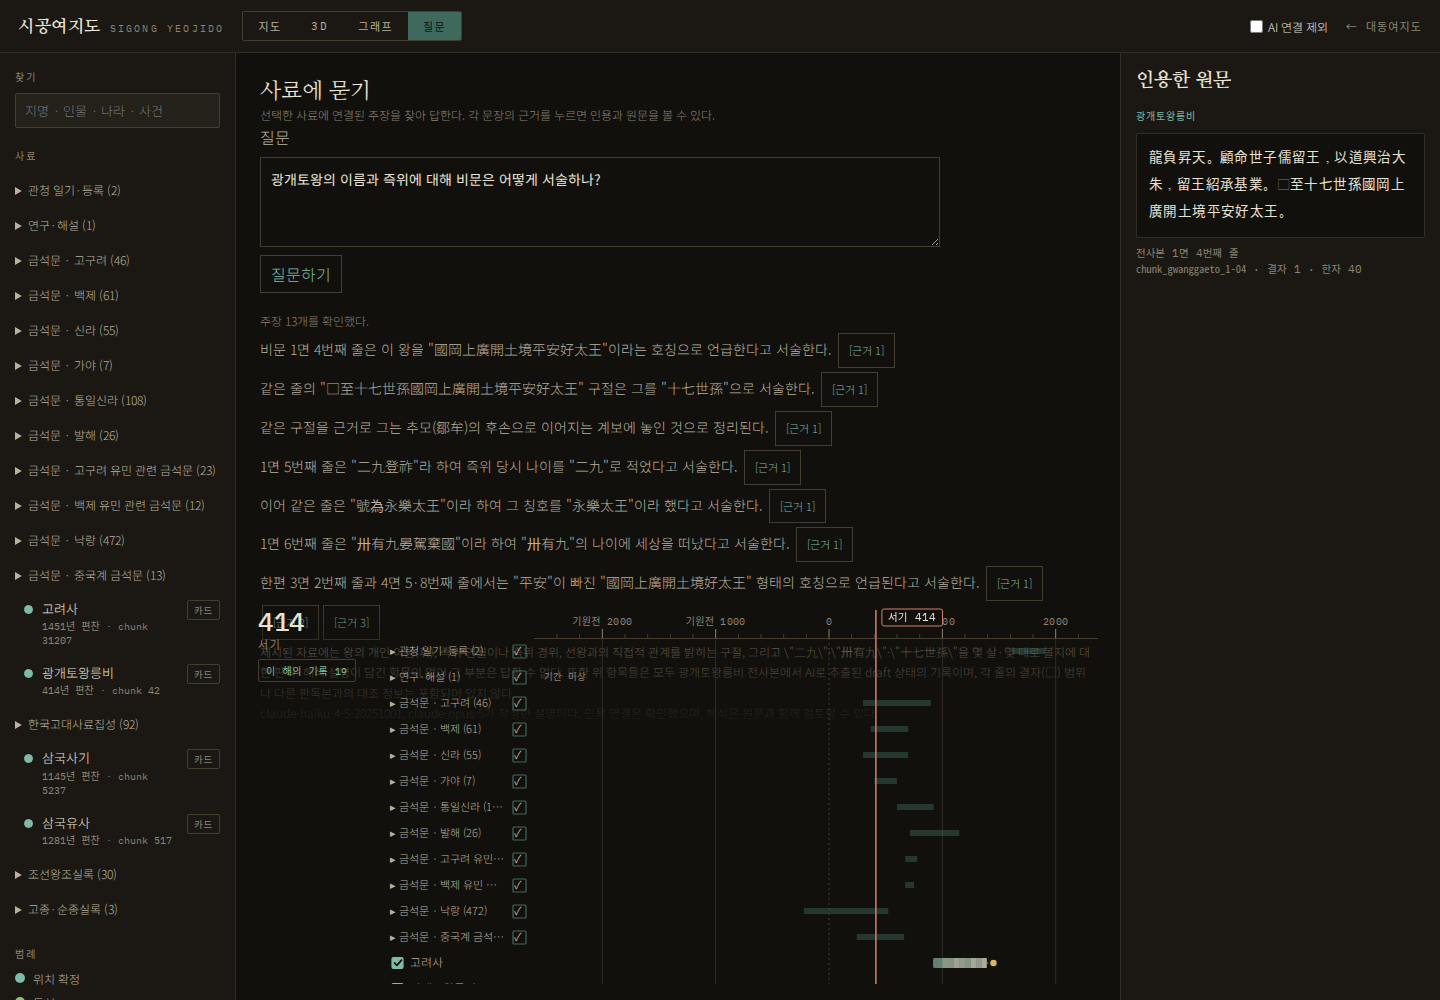
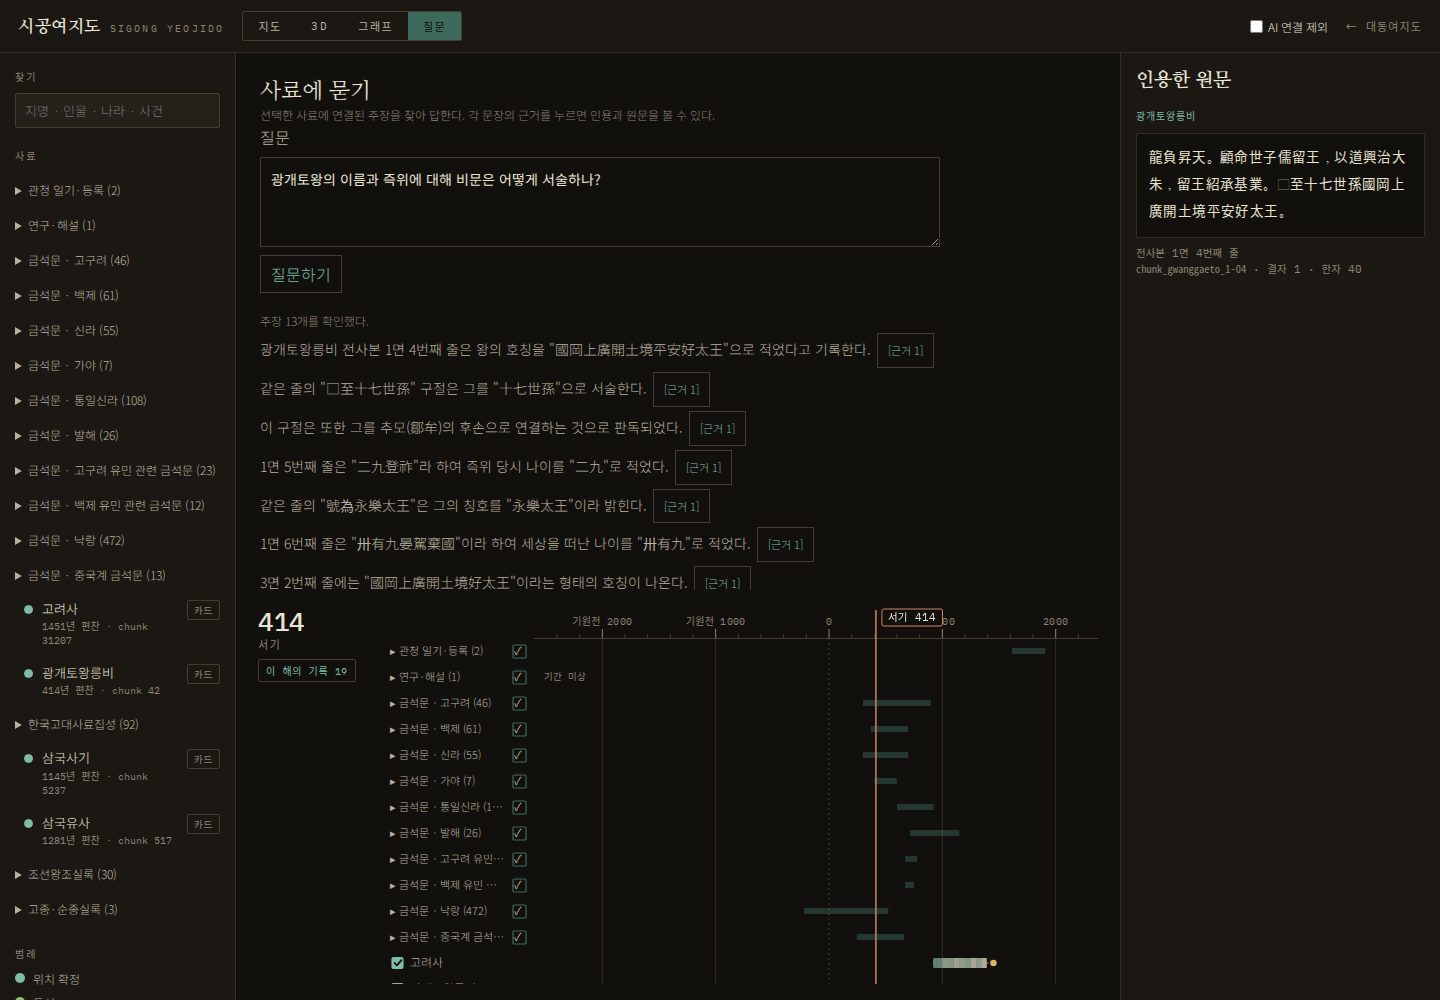
docs: record production graph and subscription chat acceptance (#47)

Changed region(s): [[0.1875, 0.341, 0.7188, 0.589], [0.1875, 0.62, 0.75, 0.682]]

diff --git a/docs/TASKS.md b/docs/TASKS.md
@@ -123,11 +123,11 @@
 
 | 이슈 | 작업 | 현재 상태·근거 | 선행 작업 |
 |---|---|---|---|
-| #46 | 그래프 탐색 화면·조회 | 구현·검증. 실제 Fuseki 근거 연결·페이지 이동·AI/사료 필터, [질의](research/graph-46-queries.json)·[화면](research/graph-46-browser.json). c2 앱 배포 후 운영 확인 예정 | #49 #50, 기존 Fuseki |
-| #47 | 근거 챗봇·Claude CLI 연결 | 구현·검증. 실제 Opus 5 Max 구독 답변→인용→원문, 근거 부족·AI/사료 필터 [통과](research/chat-47-browser.json). c2 앱 배포 검증 예정 | #46 #50 #51 |
+| #46 | 그래프 탐색 화면·조회 | 완료 `1029baa`. 실제 Fuseki 근거 연결·페이지 이동·AI/사료 필터, [c2 운영 검증](research/graph-46-production.json) 통과 | 시간·위치 확장은 #49 #55 |
+| #47 | 근거 챗봇·Claude CLI 연결 | 완료 `3b1580e`, 겹침 수정 `5cf9859`. c2 Max 구독 답변→인용→원문, 근거 부족·AI/사료 필터·480px [운영 검증](research/chat-47-production.json) 통과 | 답할 수 있는 범위는 연결된 주장에 한정 |
 | #48 | 현대 연구 기본 렌즈·비교 사료 겹침 | 부분. 스타일 필드만 있고 기본 Source 0 | #51 #52 |
 | #49 | 좌표 Claim·지도·3D·RDF 연결 | 부분. 후보는 있으나 locatedAt 0, 데이터 경로 분리 | 위치 근거 수집, #63 |
-| #50 | AI 주장·연결 제외 필터 | API·2D·3D 구현·실측. AI 13→0, 숨긴 3D 선택 대상도 0, [실행 기록](research/origin-filter-50.json). 그래프·챗봇 연결은 후속 구현 | provenance는 이미 있음 |
+| #50 | AI 주장·연결 제외 필터 | 완료 `ef443ad`, `4d109e4`. API·2D·3D·그래프·챗봇에 적용, [3D](research/origin-filter-50.json)·[그래프](research/graph-46-production.json)·[챗봇](research/chat-47-production.json) 운영 검증 통과. human 격리 사례도 통과 | 시간축 등 추가 경로에도 같은 조건 적용 |
 | #51 | 전 시대·여러 사료의 Claim 뼈대 | 미완료. 현재 2개 Source에 86개만 | 기존 적재본부터 시작, #52 |
 | #52 | 통사 원문 공백·잔여 사료·번역문 확보 | 미완료. 1945년 이후 원사료 카드 0 | #12, 자료별 조사 |
 | #53 | 서로 다른 사료의 사건·판독 비교 | 미완료. 현재 충돌은 한 사료의 판독 차이 | #51, 동일성 근거 |
